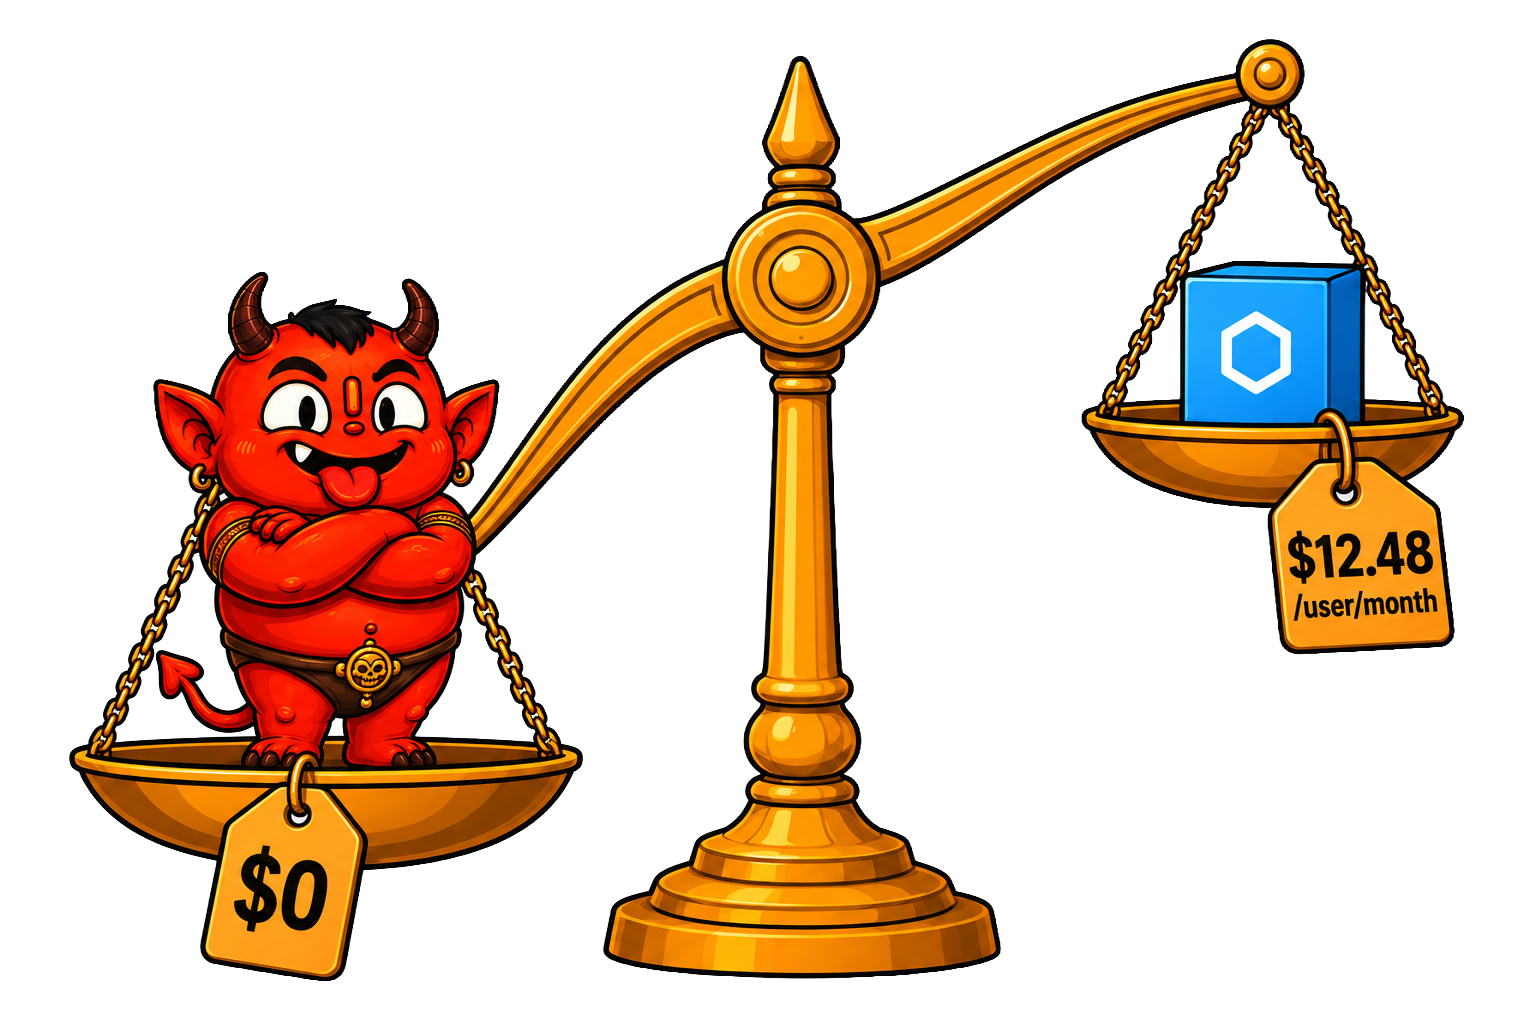
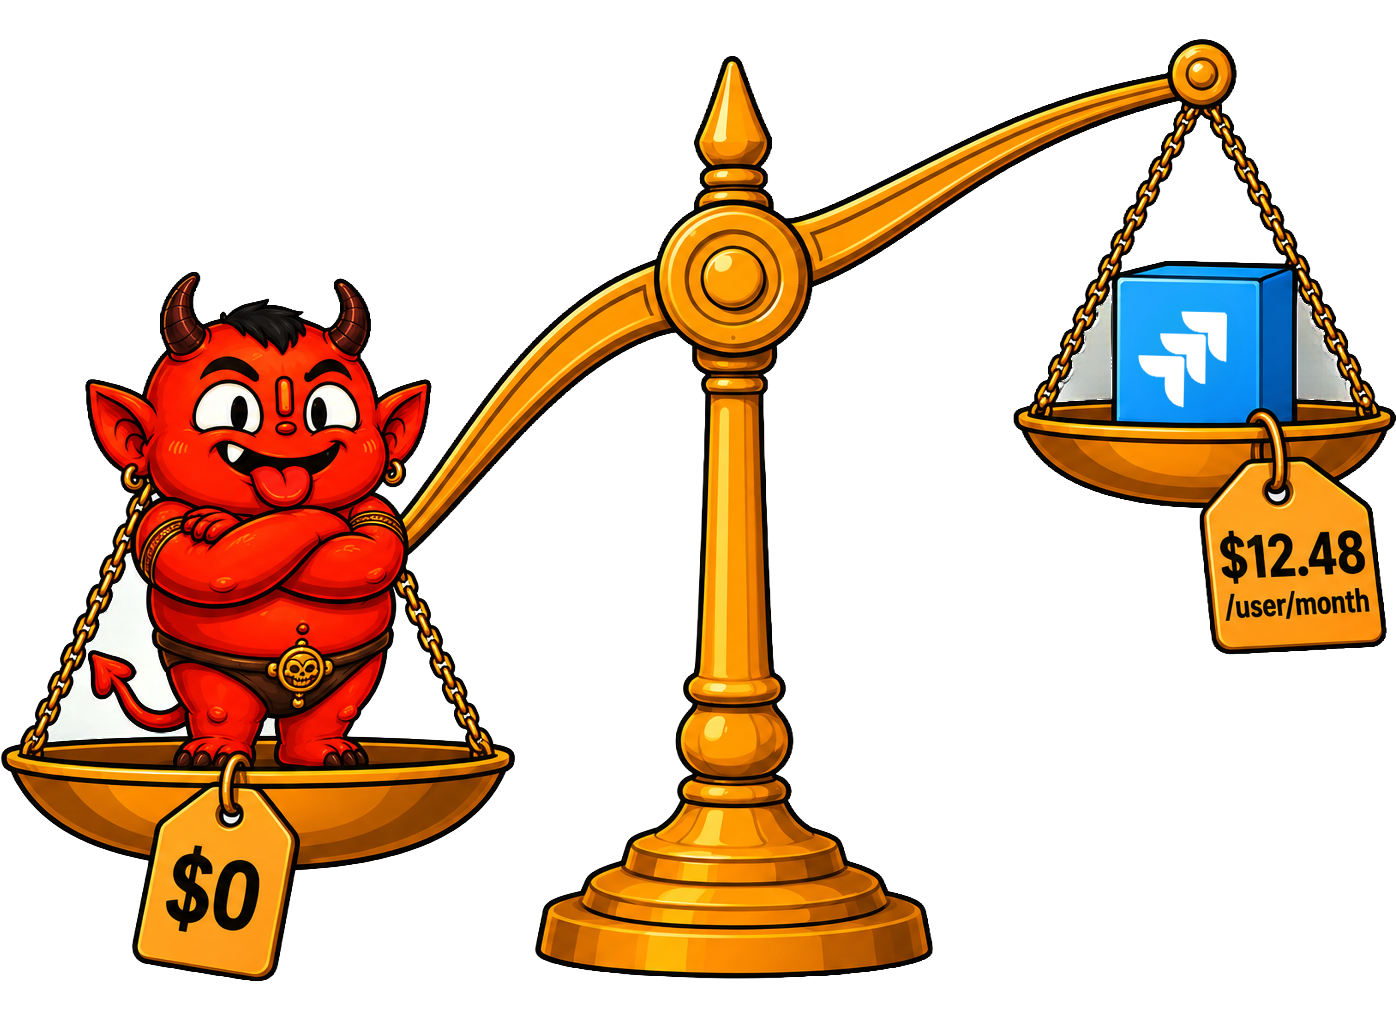
Add product screenshot, update hero image, fix mobile layout on jira comparison page
- Add Bugasura product screenshot between paper section and bento
- Replace hero image with updated version
- Fix orange bento section clipping on mobile (counter Testimonials -mt-32)

Changed region(s): [[0.0, 0.0312, 1.0, 0.9688], [0.3696, 0.8125, 0.462, 0.9688]]

diff --git a/src/app/best-free-jira-alternative/page.tsx b/src/app/best-free-jira-alternative/page.tsx
@@ -139,8 +139,6 @@ export default function JiraAlternativePage() {
         }
         @media (max-width: 1023px) {
           .bento-section {
-            overflow: visible !important;
-            clip-path: inset(0 round 32px);
             padding-bottom: 40px !important;
           }
         }
@@ -238,9 +236,23 @@ export default function JiraAlternativePage() {
         <JiraQuoteRotator />
       </section>
 
+      {/* ── PRODUCT SCREENSHOT ── */}
+      <div className="w-full flex justify-center" style={{ marginTop: -32 }}>
+      <div className="rounded-[24px] overflow-hidden" style={{ maxWidth: 580 }}>
+        <Image
+          src="/bugasura-product.png"
+          alt="Bugasura product screenshot"
+          width={1455}
+          height={1081}
+          className="w-full h-auto"
+          loading="lazy"
+        />
+      </div>
+      </div>
+
       {/* ── WHY BUGASURA — bento grid ── */}
       <section
-        className="bento-section rounded-[32px] overflow-hidden"
+        className="bento-section rounded-[32px]"
         style={{ backgroundColor: "#FFA840", paddingTop: "clamp(48px, 8vw, 80px)", paddingBottom: "clamp(48px, 8vw, 80px)", paddingLeft: "clamp(24px, 6vw, 80px)", paddingRight: "clamp(24px, 6vw, 80px)" }}
       >
         {/* Split header: title left, body right */}
@@ -350,7 +362,9 @@ export default function JiraAlternativePage() {
       </section>
 
       {/* ── TESTIMONIALS ── */}
-      <Testimonials />
+      <div className="mt-32 lg:mt-0">
+        <Testimonials />
+      </div>
 
       {/* ── COMBINED COMPARISON ── */}
       <section
